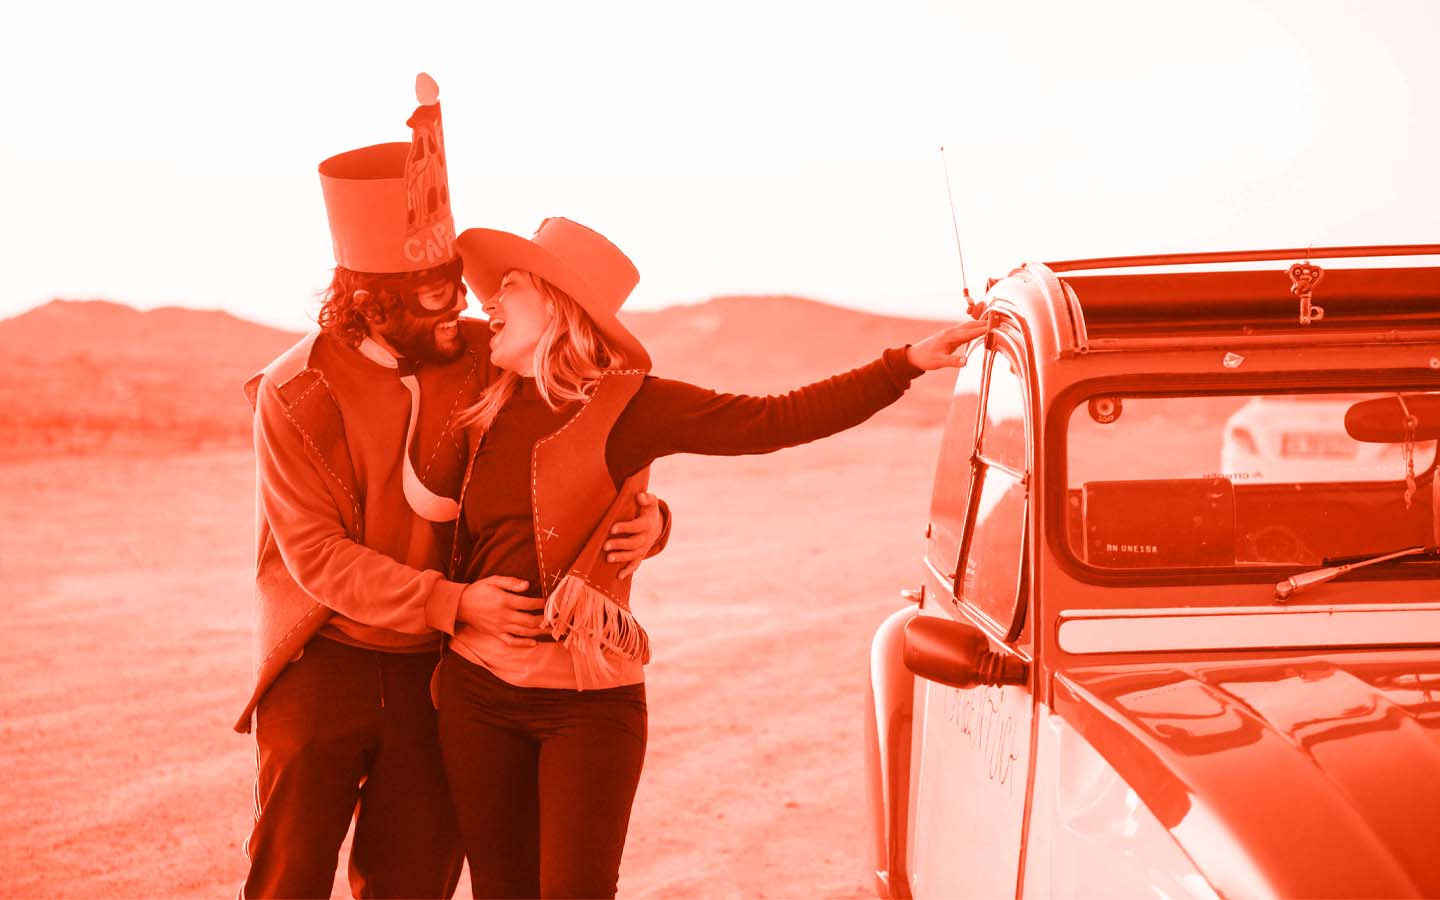
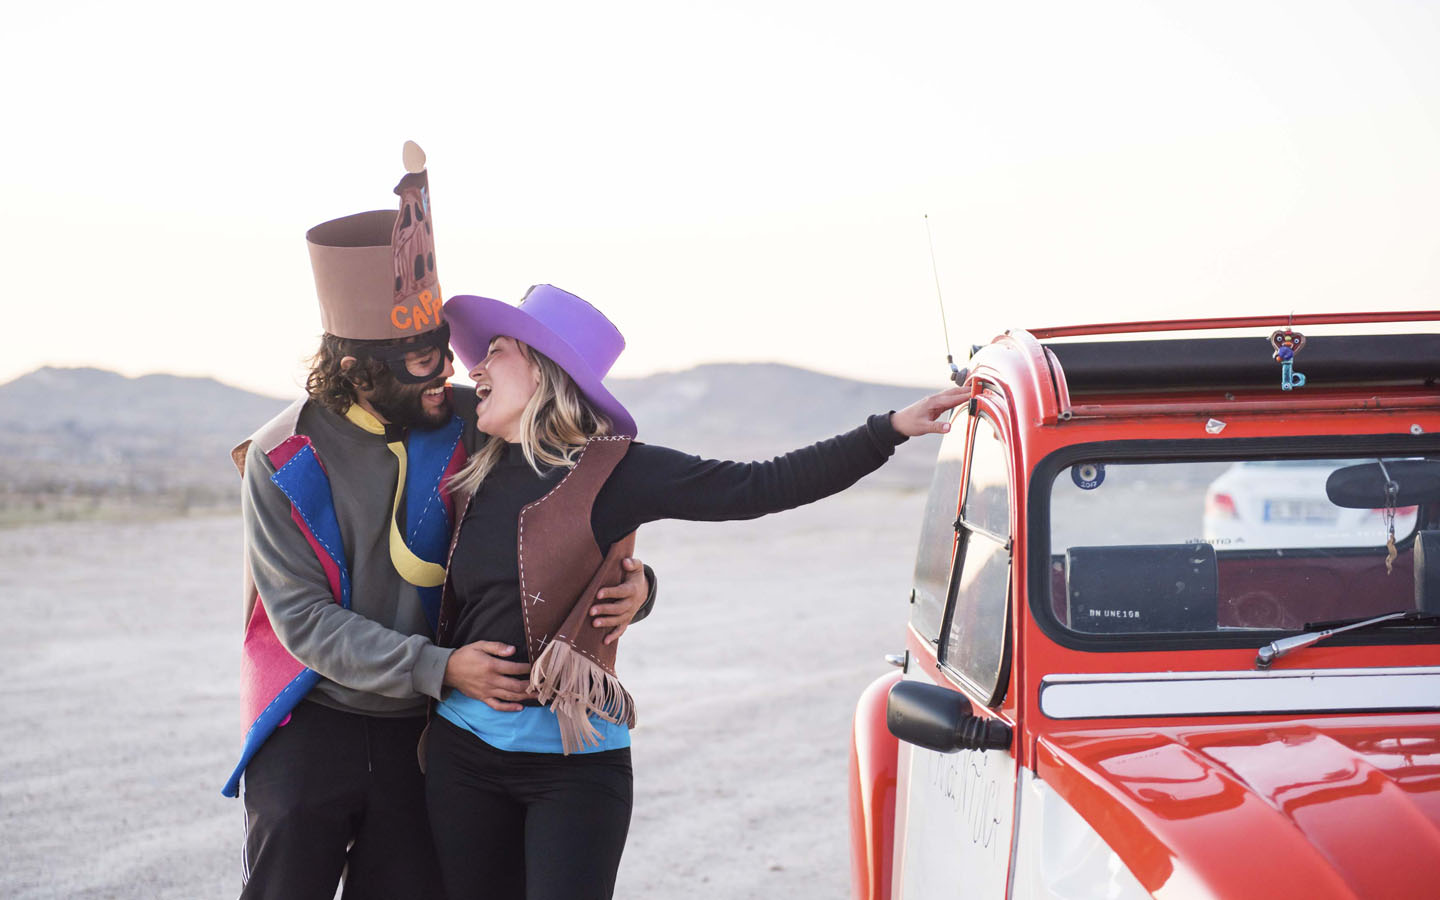
second revision for author. changes orang photos for normals. fdix ortographic errors. fix, fix, fix

diff --git a/components/NavBar.js b/components/NavBar.js
@@ -6,54 +6,51 @@ const NavBar = ({
   classHome,
   classQuienesSomos,
   classServicios,
-  
 }) => {
   return (
-    <div className="flex my-0 md:py-0 justify-between px-0 font-bold bg-yellow text-gray-800 text-lg bg-citrorange ">
+    <div className="flex my-0 md:py-0 justify-between px-0 font-bold bg-yellow text-gray-800 text-base bg-citrorange ">
       <div className="hidden md:flex">
         <Link href="/">
-          <a
-            className={`px-3 hover:text-white ml-24 py-3 ${classHome}`}
-          >
+          <a className={`px-3 hover:text-white ml-24 py-3 ${classHome}`}>
             Home
           </a>
         </Link>
         <Link href="/euro2018">
-          <a
-            className={`px-3 hover:text-white py-3 ${classQuienesSomos}`}
-          >
+          <a className={`px-3 hover:text-white py-3 ${classQuienesSomos}`}>
             Europa-Asia 2018
           </a>
         </Link>
         <Link href="/actualidad">
-          <a
-            className={`px-3 hover:text-white py-3 ${classQuienesSomos}`}
-          >
+          <a className={`px-3 hover:text-white py-3 ${classQuienesSomos}`}>
             Futuros proyectos
           </a>
         </Link>
         <Link href="/book">
-          <a
-            className={`px-3 hover:text-white py-3 ${classServicios}`}
-          >
-           El libro
-          </a>
-        </Link>
-        
-        <Link href="/services">
-          <a
-            className={`px-3 hover:text-white py-3 ${classServicios}`}
-          >
-           Otros productos
+          <a className={`px-3 hover:text-white py-3 ${classServicios}`}>
+            El libro
           </a>
         </Link>
 
-        
-          <a href="https://www.google.com/maps/d/u/1/viewer?mid=1Bqt_6NO_SpImg1BNDNUwqRvHxp83IGWq&ll=43.274924631755056%2C20.666686326186177&z=4" target="_blank" rel="noopener" className="px-3 hover:text-white py-3">
-            Mapa del recorrido 2018
+        <Link href="/services">
+          <a className={`px-3 hover:text-white py-3 ${classServicios}`}>
+            Otros productos
           </a>
-        
-        
+        </Link>
+
+        <a
+          href="https://www.google.com/maps/d/u/1/viewer?mid=1Bqt_6NO_SpImg1BNDNUwqRvHxp83IGWq&ll=43.274924631755056%2C20.666686326186177&z=4"
+          target="_blank"
+          rel="noopener"
+          className="px-3 hover:text-white py-3"
+        >
+          Mapa del recorrido 2018
+        </a>
+
+        <Link href="/audio">
+          <a className={`px-3 hover:text-white py-3 ${classServicios}`}>
+            Audiocuentos
+          </a>
+        </Link>
       </div>
       <div className="p-2 ml-2 md:hidden flex justify-start w-10 text-4xl text-white">
         <button

diff --git a/pages/book.js b/pages/book.js
@@ -40,7 +40,7 @@ export default function Book() {
         <div className="text-gray-800 space-y-3 text-lg my-16 px-8 md:px-64 md:text-xl textLight mx-auto ">       
             <p>
               Libro que cuenta al detalle nuestro viaje por Europa y Parte de Asia
-              en 2018 a bordo de nuestro Citroën 3cv argentino.{" "}
+            a bordo de nuestro Citroën 3cv argentino durante el año 2018.{" "}
             </p>
             <p>
               ¿Cómo cruzamos el mar con el auto? ¿Cómo logramos el sustento?
@@ -63,7 +63,7 @@ export default function Book() {
             </p>
             <img src="/book-hard.jpg" className="border-4 border-gray-600" />
             <ul className="space-y-2">
-              <li>-254 pags.</li>
+              <li>-247 pags.</li>
               <li>-Anillado.</li>
               <li>-Ilustrado</li>
               <li>-Fotografías a color.</li>
@@ -85,11 +85,11 @@ export default function Book() {
             </p>
             <img src="/book-soft.jpg" className="border-4 border-gray-600" />
             <ul className="space-y-2">
-              <li>-254 pags.</li>
+              <li>-247 pags.</li>
               <li>-Anillado.</li>
               <li>-Ilustrado</li>
               <li>-Fotografías a color.</li>
-              <li>''</li>
+             
             </ul>
             <a
               href="https://articulo.mercadolibre.com.ar/MLA-1109159958-citroaventura-el-libro-version-tapa-blanda-_JM
@@ -102,12 +102,14 @@ export default function Book() {
               </button>
             </a>
           </div>
-          <div className="flex justify-center bg-citrorange rounded-lg border-2 border-gray-800 bg-opacity-60">
+          <div className="flex justify-center text-center bg-citrorange rounded-lg border-2 border-gray-800 bg-opacity-60">
             <p className="px-4 md:px-24 text-lg p-2">
-                <b>¿Quieres una muestra del libro?</b> Escucha 3 episodios en audio
-                haciendo click <a className="text-3xl">
-                  <Link href="/audio">AQUÌ</Link>
-                </a>{" "}
+                <b>¿Quieres una muestra del libro?</b> <p>
+                  Escucha 3 episodios en audio
+                  haciendo click <a className="text-3xl font-righteous">
+                    <Link href="/audio">AQUÌ</Link>
+                  </a>{" "}
+                </p>
               </p>
           </div>
         </div>

diff --git a/components/SectionBackgroundFixed.js b/components/SectionBackgroundFixed.js
@@ -8,24 +8,30 @@ const SectionBackgroundFixed = () => {
         <div></div>
 
         <Fade left>
-          <div className="text-gray-800 space-y-3 text-lg md:text-xl textLight font-bold md:pl-24 justify-start m-8">
-            <p >
-            ¡Hola! Somos Gabriela Lucas, Pablo Profetto y nuestro Citroën 3cv llamado "il Morta"
+          <div className="text-white space-y-3 text-lg md:text-xl textLight font-bold md:pl-24 justify-start m-8">
+            <p>
+              ¡Hola! Somos Gabriela Lucas, Pablo Profetto y nuestro Citroën 3cv
+              llamado "il Morta"
             </p>
             <p>
               ¿Querés acompañarnos en un viaje inolvidable alrededor del mundo?
             </p>
-            <div className="md:grid md:grid-cols-2 text-sm md:text-base md:p-4 gap-6 text-white">
-               <Link href="/euro2018"><button className="bg-citrorange p-2 border-2 rounded-lg font-extrabold border-black uppercase bg-opacity-80 font-righteous">Citroaventura 2018 Europa-Asia</button></Link>
-               <button className="bg-citrorange p-2 border-2 rounded-lg font-extrabold border-black uppercase bg-opacity-80 font-righteous">Actualidad y futuros proyectos</button>
+            <div className="md:grid md:grid-cols-2 text-sm md:text-base md:p-4 gap-6 text-white min-h-64">
+              <Link href="/euro2018">
+                <button className="bg-citrorange p-2 border-2 rounded-lg font-extrabold border-black uppercase bg-opacity-80 font-righteous mt-4">
+                  Citroaventura 2018 Europa-Asia
+                </button>
+              </Link>
+              <button className="bg-citrorange p-2 border-2 rounded-lg font-extrabold border-black uppercase bg-opacity-80 font-righteous mt-4">
+                Actualidad y futuros proyectos
+              </button>
             </div>
           </div>
         </Fade>
       </div>
       <style jsx>{`
         .textLight {
-         
-         text-shadow: 1px 1px 2px white, 0 0 1em white, 0 0 0.2em white;
+          text-shadow: 1px 1px 2px black, 0 0 1em black, 0 0 0.2em black;
         }
       `}</style>
     </section>

diff --git a/pages/euro2018.js b/pages/euro2018.js
@@ -40,14 +40,15 @@ export default function Euro2018() {
         <h2 className="text-2xl md:text-4xl text-center my-16">
           Europa-Asia 2018
         </h2>
-        <div className="text-gray-800 space-y-3 text-lg my-16 px-8 md:px-64 md:text-xl textLight mx-auto ">
+        <div className="text-gray-800 space-y-6 text-lg my-16 px-8 md:px-64 md:text-xl textLight mx-auto ">
           <p>Los sueños de casi todas nuestras vidas en un solo viaje...</p>
           <p>
             Salimos en Abril del 2018 desde Argentina con tumbo a España con los
             siguientes objetivos:
           </p>
+          <img src="/objetivos.jpg" className="mx-auto m-4 border-2 border-gray-800 rounded-lg" />
           <p>
-            (aqui iria imagen con dibujos de objetivos) Una ventura en la que
+            Una aventura en la que
             conocimos personajes maravillosos y lugares mágicos. Una experiencia
             inolvidable que nos inspiró para seguir viajando buscando nuevos
             horizontes.
@@ -56,16 +57,18 @@ export default function Euro2018() {
             ¿Querés saber cómo nos fue? ¿Cuántos kilómetros recorrimos? ¿Cuántos
             países visitamos? ¿Si logramos todos nuestros objetivos?
           </p>
-          <p>
+          <p className="mb-4">
             Puedes saberlo todo haciendo click aquí:
           </p>
           <Link href="/book">
-            <button className="bg-citrorange p-4 border-2 rounded-lg font-extrabold border-black">
-                  Libro Citroaventura 2018
-            </button>
+            
+              <button className="bg-citrorange p-4 border-2 rounded-lg font-extrabold border-black ">
+                    Libro Citroaventura 2018
+              </button>
+           
           </Link>
           <p>
-            o bien siguiéndonos en nuestras redes (anlaces al final de esta página).... 
+            o bien siguiéndonos en nuestras redes (enlaces al final de esta página).... 
           </p>
           <p>
             ¡Podés escribirnos a nuestro mail:{" "}

diff --git a/pages/actualidad.js b/pages/actualidad.js
@@ -43,22 +43,25 @@ export default function Actualidad() {
           <p>
             Actualmente estamos en Mendoza, Argentina y con el libro de nuestra
             travesía recientemente publicado buscamos nuevos horizontes en
-            nuestro país. Queremos llegar a pequeñas comunidades del interior
+            nuestro país. 
+            </p>
+            <p>Queremos llegar a pequeñas comunidades del interior
             para llevar nuestra historia y para aprender todo lo que la
             humanidad tenga para enseñar.
           </p>
+          <div className="my-6">
+            <img
+              src="/inside-car.jpg"
+              className="flex align-middle mx-auto m-8 border-4 rounded-xl border-gray-600"
+            />
+          </div>
           <p>
             Efectuamos también presentaciones itinerantes de nuestro libro,
             conciertos de las canciones compuestas a lo largo de nuestra
             travesía, visitas a escuelas, centros culturales y cursos de
             concientización vial.
           </p>
-          <p>
-            (aqui iria imagen con dibujos de objetivos) Una ventura en la que
-            conocimos personajes maravillosos y lugares mágicos. Una experiencia
-            inolvidable que nos inspiró para seguir viajando buscando nuevos
-            horizontes.
-          </p>
+         
           <p>
             ¿Interesado en coordinar actividades o visitas a tu pueblo?
             Escríbenos a{" "}
@@ -70,15 +73,10 @@ export default function Actualidad() {
             >
               citroaventura@gmail.com
             </a>{" "}
-            o contactanos a traves de nuestras redes... (link)
+            o contactanos a traves de nuestras redes 👇...
           </p>
 
-          <div className="my-6">
-            <img
-              src="/inside-car.jpg"
-              className="flex align-middle mx-auto m-8 border-4 rounded-xl border-gray-600"
-            />
-          </div>
+         
         </div>
       </section>
       <Footer />

diff --git a/pages/services.js b/pages/services.js
@@ -36,10 +36,10 @@ export default function Services() {
       <MobileNavBar open={open} />
       <section>
           <h2 className="text-2xl md:text-4xl text-center my-16">Otros Productos</h2>
-        <div className="text-gray-800 space-y-3 text-lg mb-32 px-8 md:px-52 md:text-xl textLight mx-auto space-y-8 grid grid-cols-1  md:grid-cols-2 gap-6">
-          <div className="space-y-4">
-            <p className="text-xl md:text-3xl pt-8 font-bold">¡Citro dibujos!</p>
-            <img src="/mantenimiento.png" className="border-2 border-gray-600" />
+        <div className="text-gray-800 space-y-3 text-lg mb-32 px-8 md:px-52 md:text-xl textLight mx-auto space-y-8 ">
+          <div className="space-y-4 text-center">
+            <p className="text-xl md:text-3xl font-bold">¡Citro dibujos!</p>
+            <img src="/mantenimiento.png" className="border-2 border-gray-600 mx-auto space-y-4" />
             <div>
               <p>Dibujos citroneros originales a pedido. ¿Que esperás para tener el citro-dibujo digital de tu Citro-nave para imprimir en calcomanías y pegar en todos lados?</p>
               <p>¡Tu Citroen se lo merece!</p>

diff --git a/components/SectionBackgroundFixed2.js b/components/SectionBackgroundFixed2.js
@@ -3,13 +3,13 @@ import Fade from "react-reveal/Fade";
 const SectionBackgroundFixed2 = () => {
   return (
     <section>
-      <div className="p-8 md:p-32 py-16 font-bold text-center bg-cover bg-love bg-center bg-fixed flex md:grid md:grid-cols-2 h-screen ">
+      <div className="p-8 md:p-32 py-16 font-bold text-center bg-cover bg-love-m md:bg-love bg-center bg-fixed flex md:grid md:grid-cols-2 h-screen ">
         <div></div>
         <div className="space-y-6">
           <Fade left>
             <div className="text-gray-800 space-y-3 text-xl textLight font-bold justify-start">
               <p>
-              ¿Estás listo para ver hasta donde es capáz de llegar la comunidad Citronera global unida sin fronteras? 
+              ¿Estás listo para ver hasta donde es capáz de llegar la comunidad Citronera unida sin fronteras? 
               </p>
             </div>
           </Fade>

diff --git a/pages/audio.js b/pages/audio.js
@@ -38,10 +38,10 @@ Audio() {
       <section>
           <h2 className="text-2xl md:text-4xl text-center my-16">Audiocuentos</h2>
         <div className="text-gray-800 space-y-3 text-lg mb-32 px-8 md:px-52 md:text-xl textLight mx-auto space-y-8">
-          <div className="space-y-4">
+          <div className="space-y-6">
            
-            <img src="/audiocuento.jpg" className="border-4 border-gray-600" />
-            <p>Escuchá nuestros audiocuentos para tener una idea de lo que encontrarás en neustro libro</p>
+            <img src="/audiocuento.jpg" className="border-4 border-gray-600 mx-auto rounded-lg" />
+            <p>Escuchá nuestros audiocuentos para tener una idea de lo que encontrarás en nuestro libro</p>
             
           </div>
           

diff --git a/components/MobileNavBar.js b/components/MobileNavBar.js
@@ -35,6 +35,10 @@ const MobileNavBar = ({ open }) => {
         >          
           Mapa del recorrido 2018
          </a>
+         <Link href="/audio">
+          <a className="mr-2 mt-5 px-3 ">Audiocuentos</a>
+        </Link>
+
       </div>
     </div>
   );
